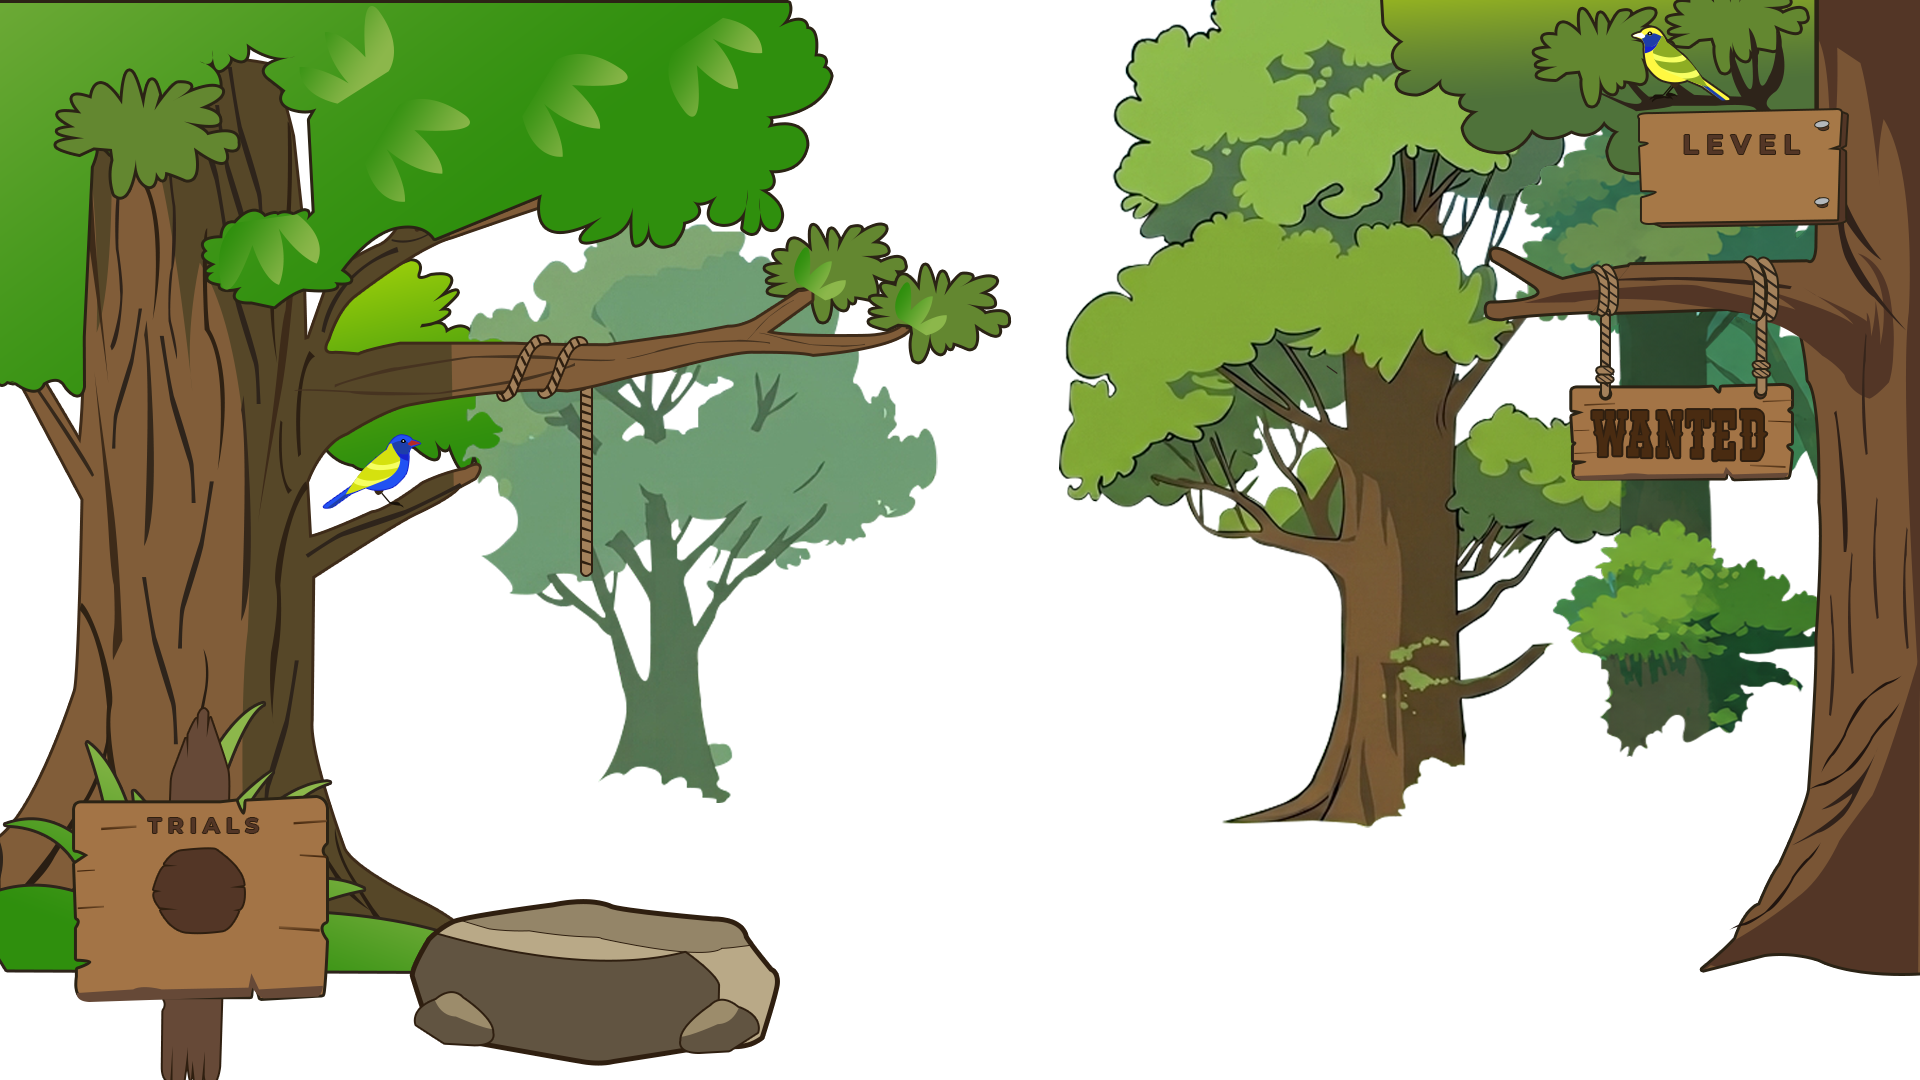
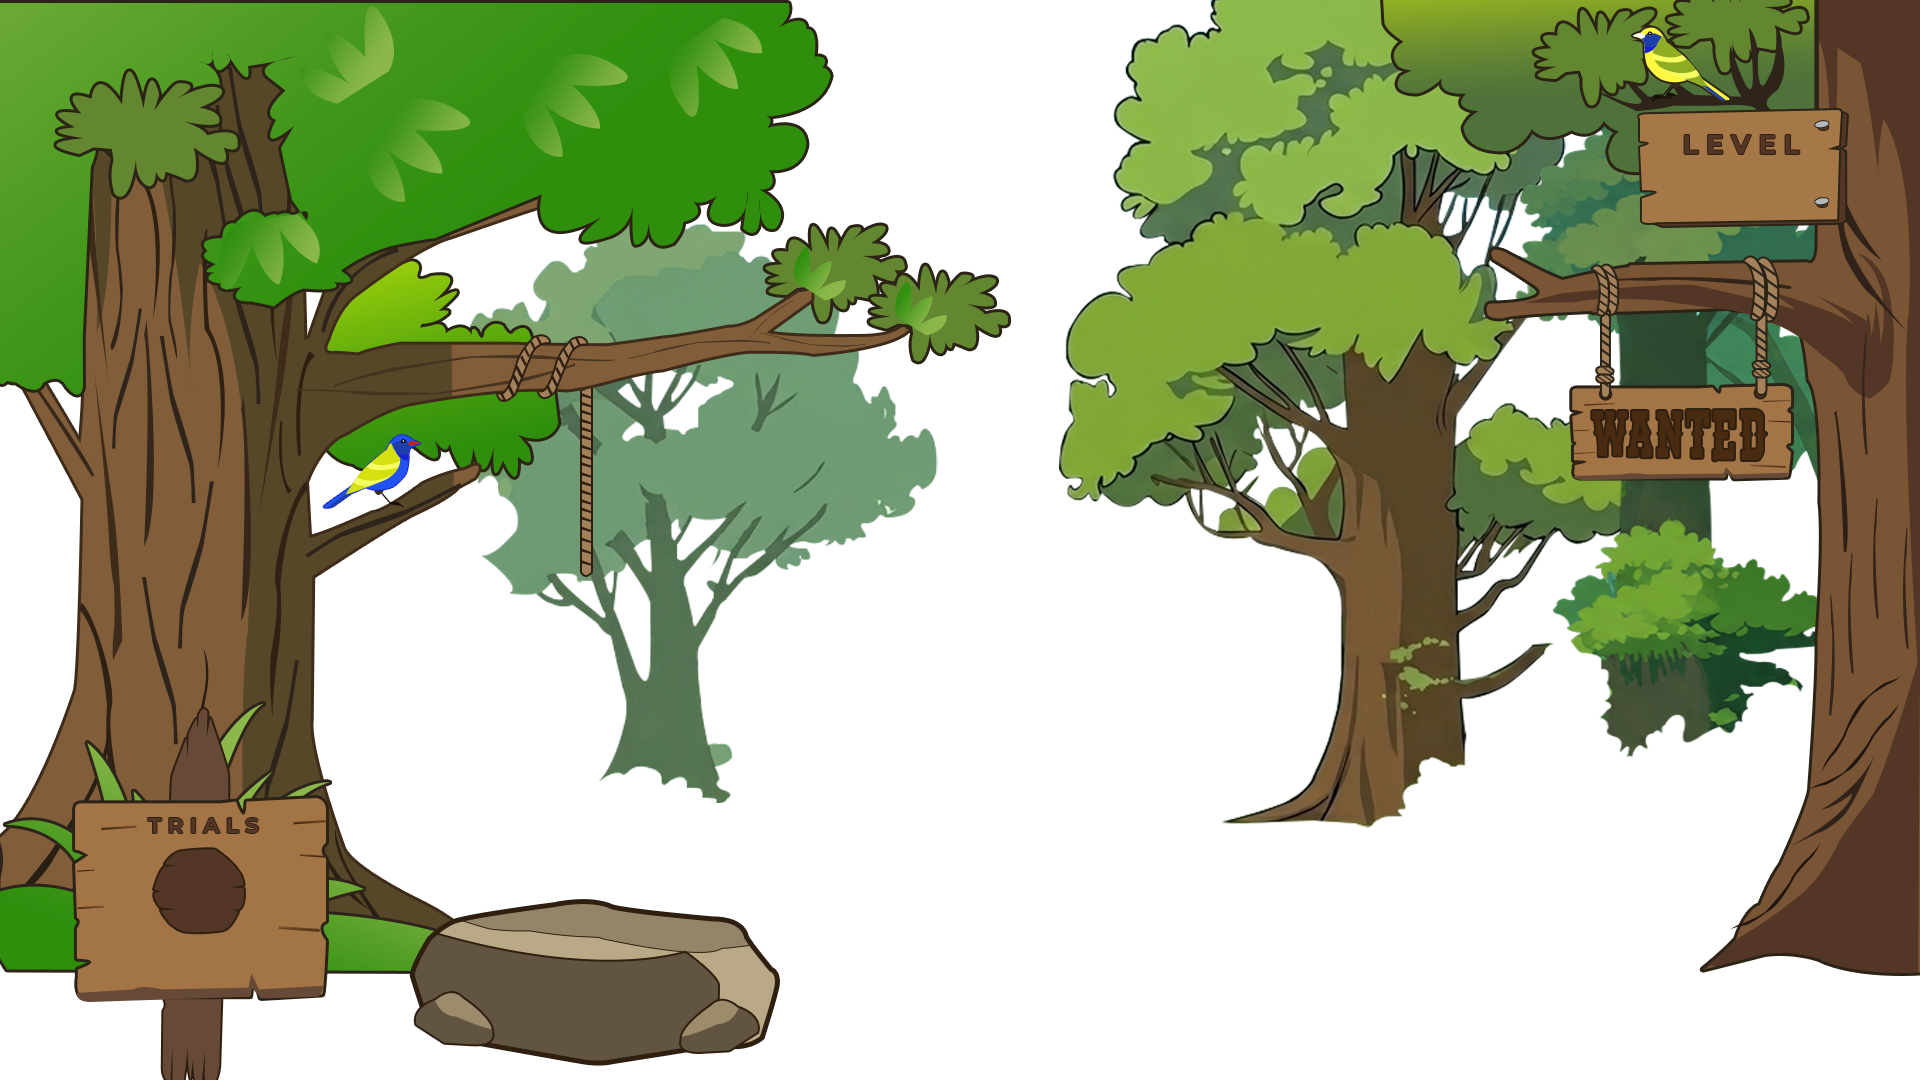
4th push today

diff --git a/static/style.css b/static/style.css
@@ -1473,7 +1473,8 @@
         background-position: center;
         background-repeat: no-repeat;
         /* height: max(100dvh, 400px); */
-        height: 100vh;
+        /* height: 100vh; */
+        height: 100dvh;
 
 
         .trailsBox {
@@ -1485,7 +1486,8 @@
 
             #bar-label {
                 left: 2% !important;
-                color: rgb(237, 93, 9) !important;
+                font-size: 11px;
+                /* color: rgb(237, 93, 9) !important; */
             }
         }
 
@@ -1635,7 +1637,7 @@
         background-position: center;
         background-repeat: no-repeat;
         /* height: max(100vh, 400px); */
-        height: 100vh;
+        height: 100dvh;
 
         .notification {
             width: 80%;
@@ -1655,7 +1657,8 @@
             .progressBarBox {
                 #bar-label {
                     left: 2% !important;
-                    color: green !important;
+                    font-size: 10px;
+                    /* color: green !important; */
                 }
 
                 .bar-container {
@@ -1828,7 +1831,8 @@
         background-position: center;
         background-repeat: no-repeat;
         /* height: max(100vh, 400px); */
-        height: 100vh;
+        /* height: 100vh; */
+        height: 100dvh;
 
         .notification {
             width: 80%;
@@ -1852,7 +1856,8 @@
             .progressBarBox {
                 #bar-label {
                     left: 5% !important;
-                    color: green !important;
+                    font-size: 10px;
+                    /* color: rgb(248, 248, 54) !important; */
                 }
 
                 .bar-container {
